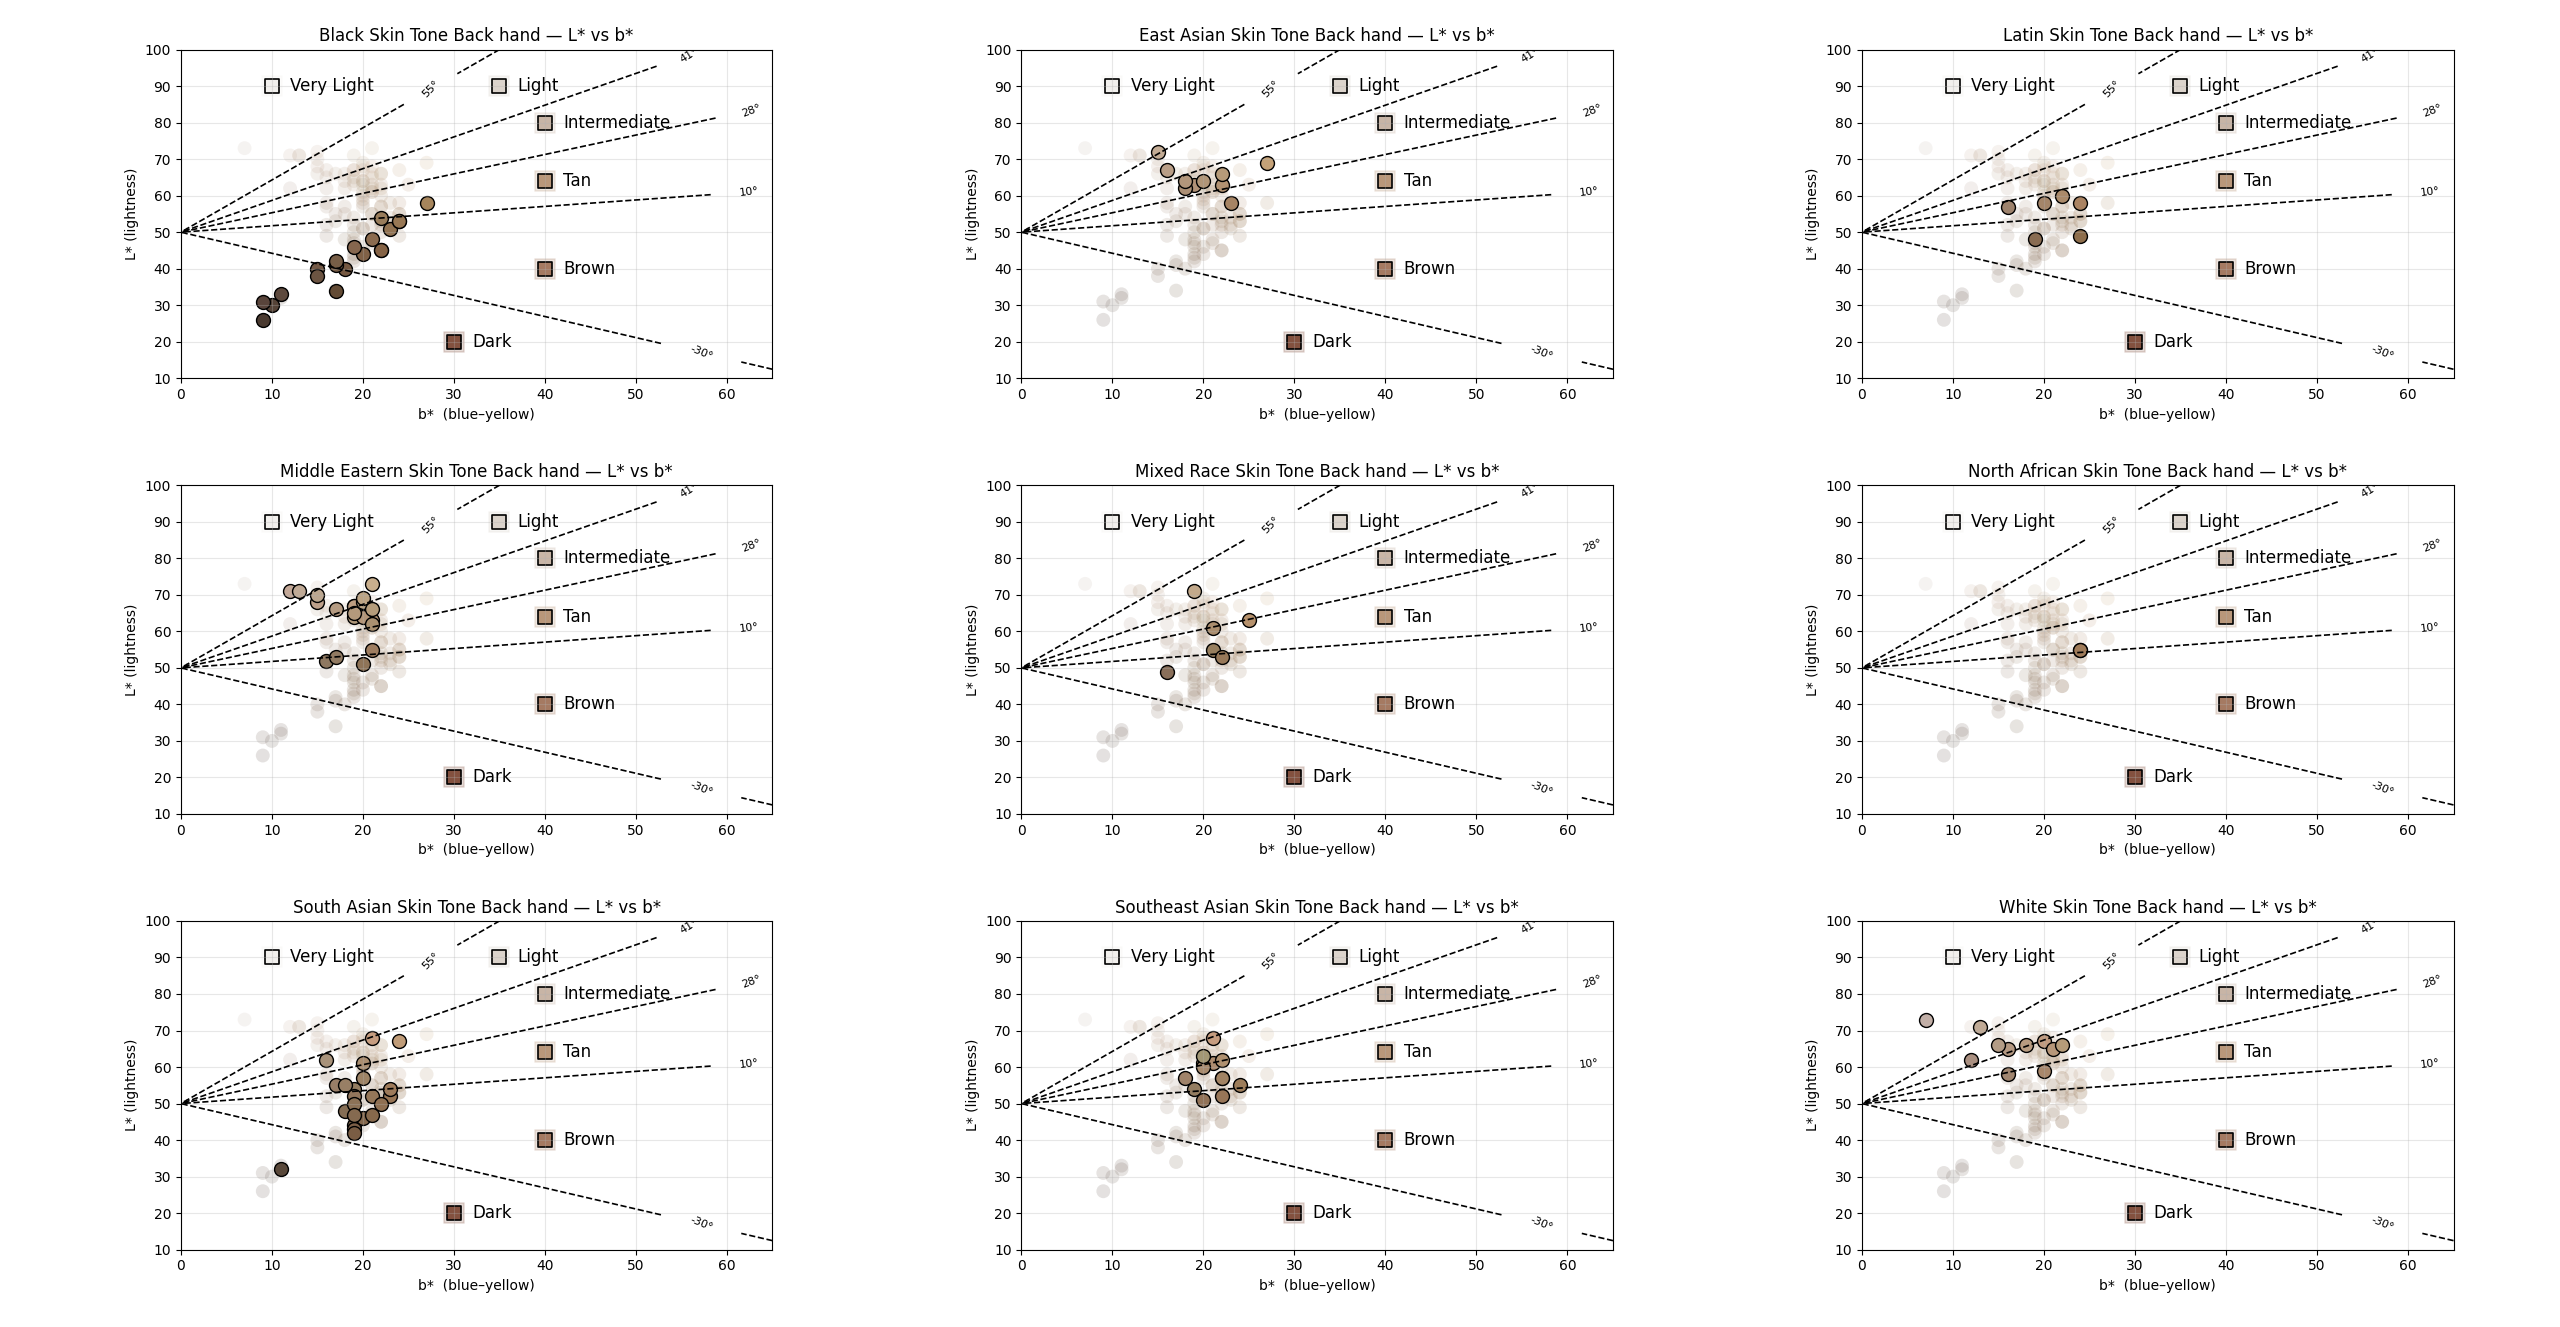
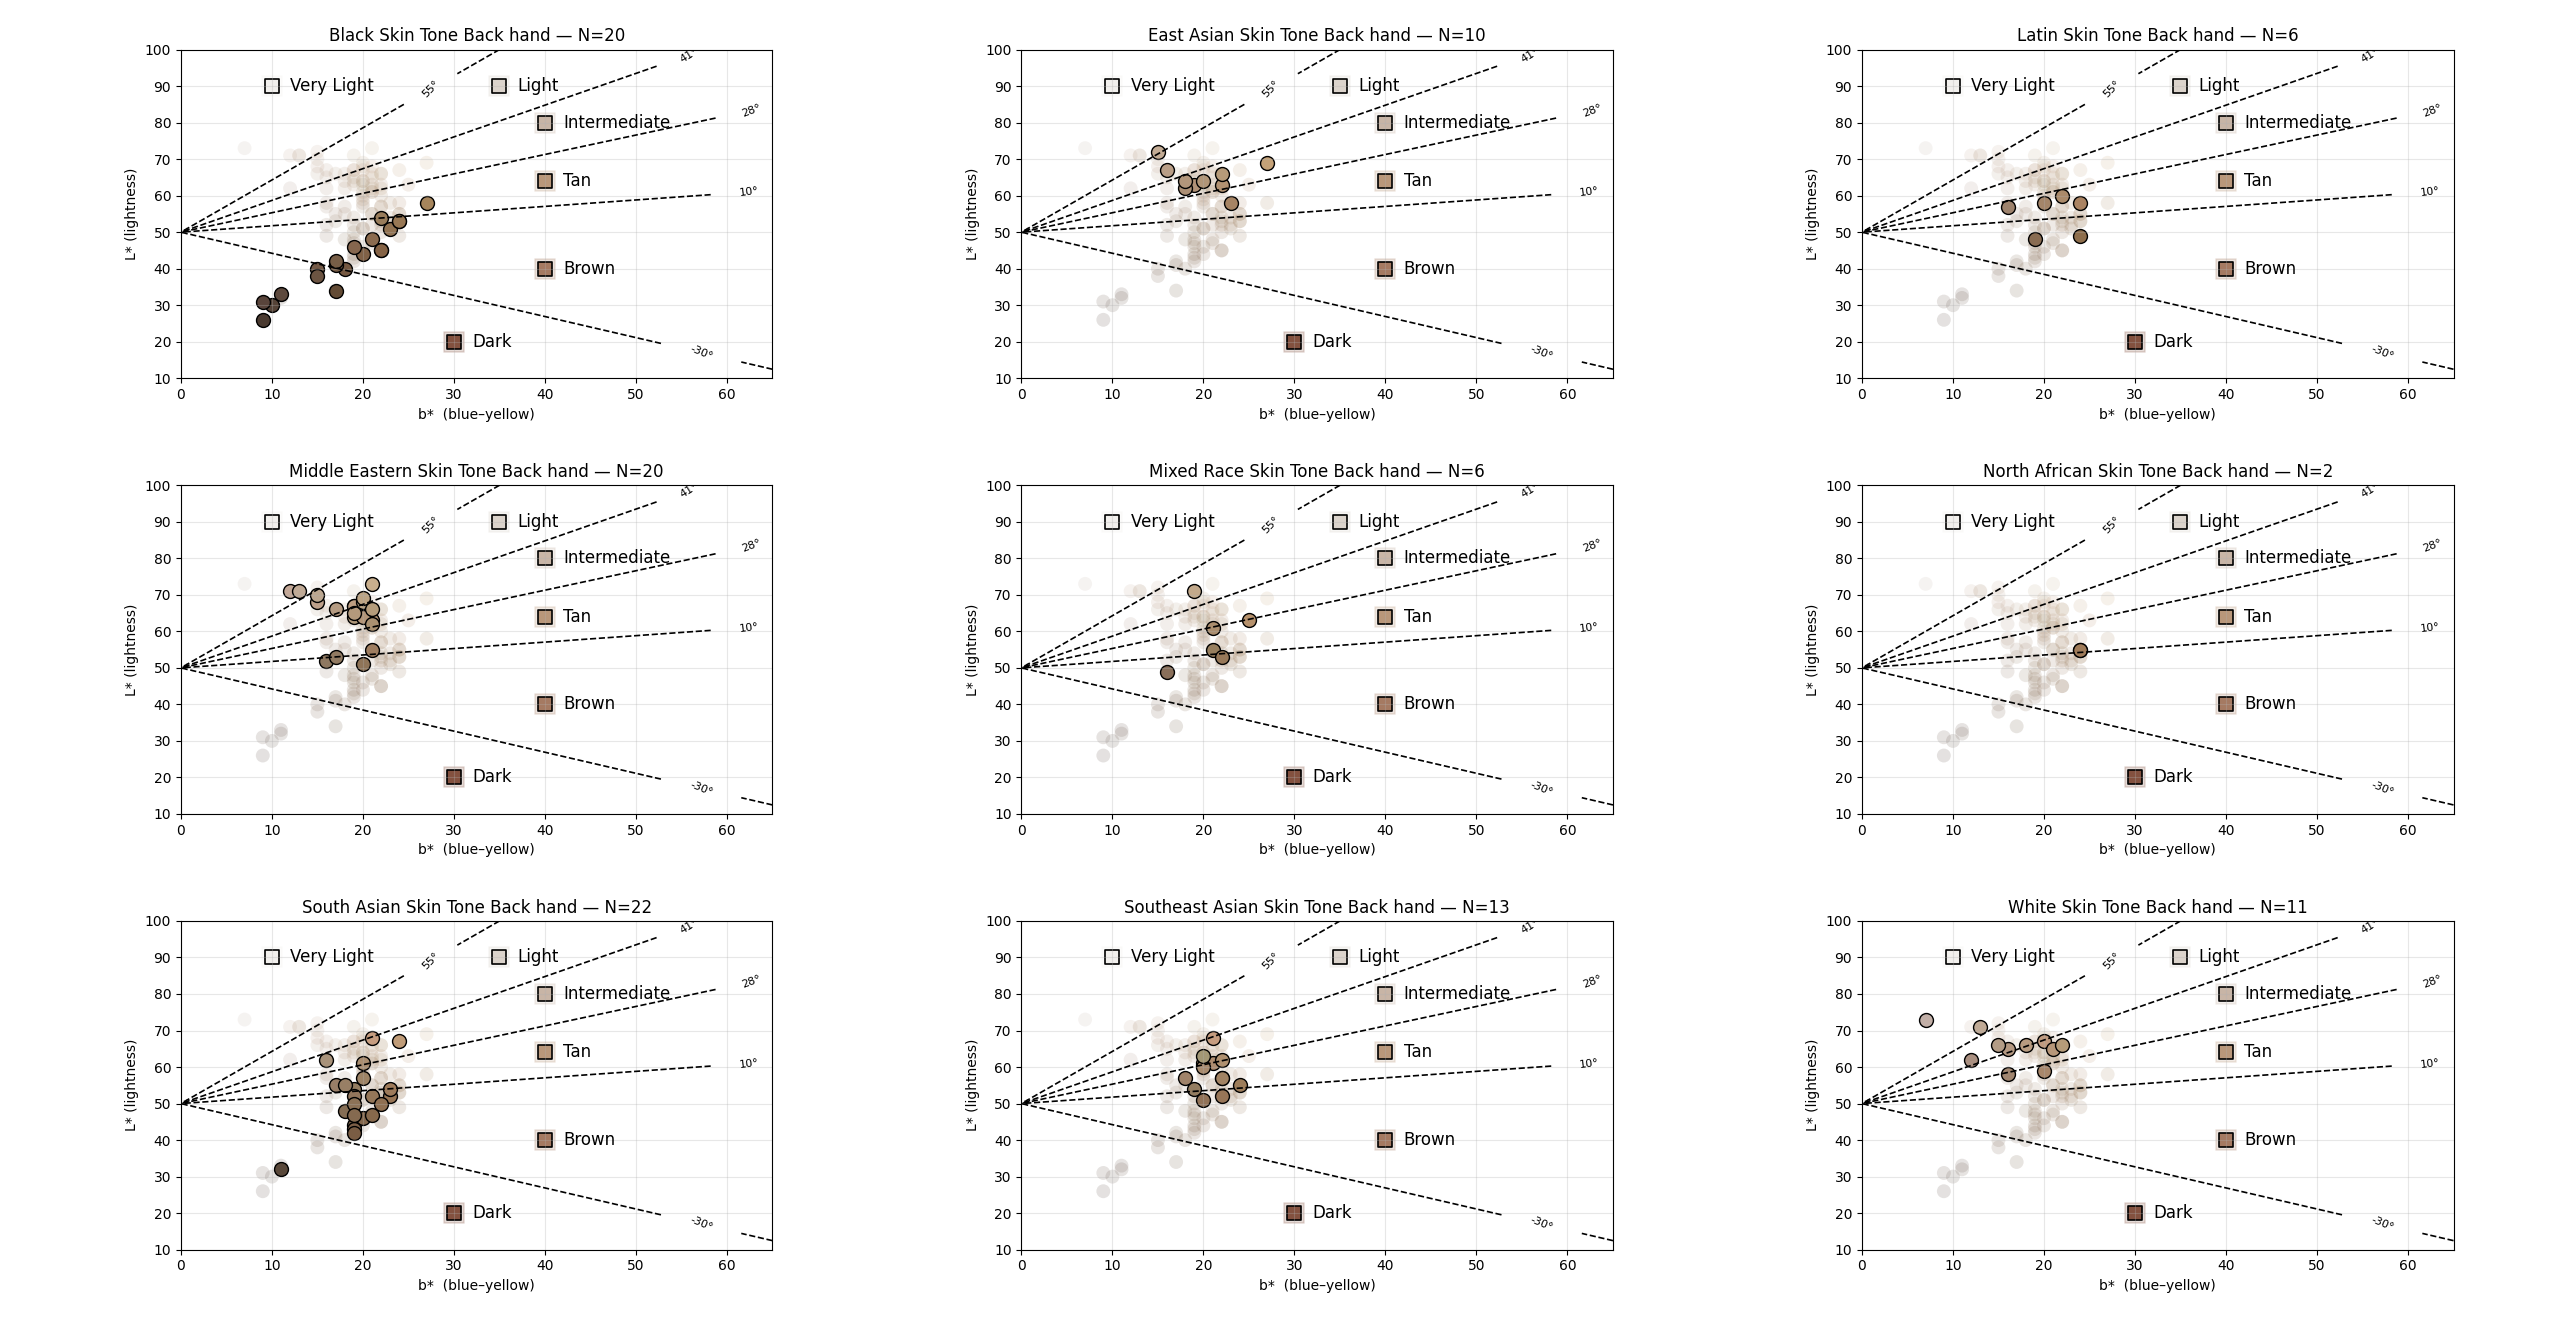
N = addition

diff --git a/plot_ethnicities.py b/plot_ethnicities.py
@@ -80,7 +80,7 @@ def plot_L_vs_b( ax, filename, back=True, title_prefix="Skin Tone Analysis", alp
     #         ha='center', va='bottom', fontsize=10, fontweight='bold')
     ax.set_xlabel("b*  (blue–yellow)")
     ax.set_ylabel("L* (lightness)")
-    ax.set_title(f"{title_prefix} — L* vs b*")
+    ax.set_title(f"{title_prefix} — N={len(input_lab)}")
     ax.set_xlim(0, 65)
     ax.set_ylim(10, 100)
     ax.grid(True, alpha=0.3)
